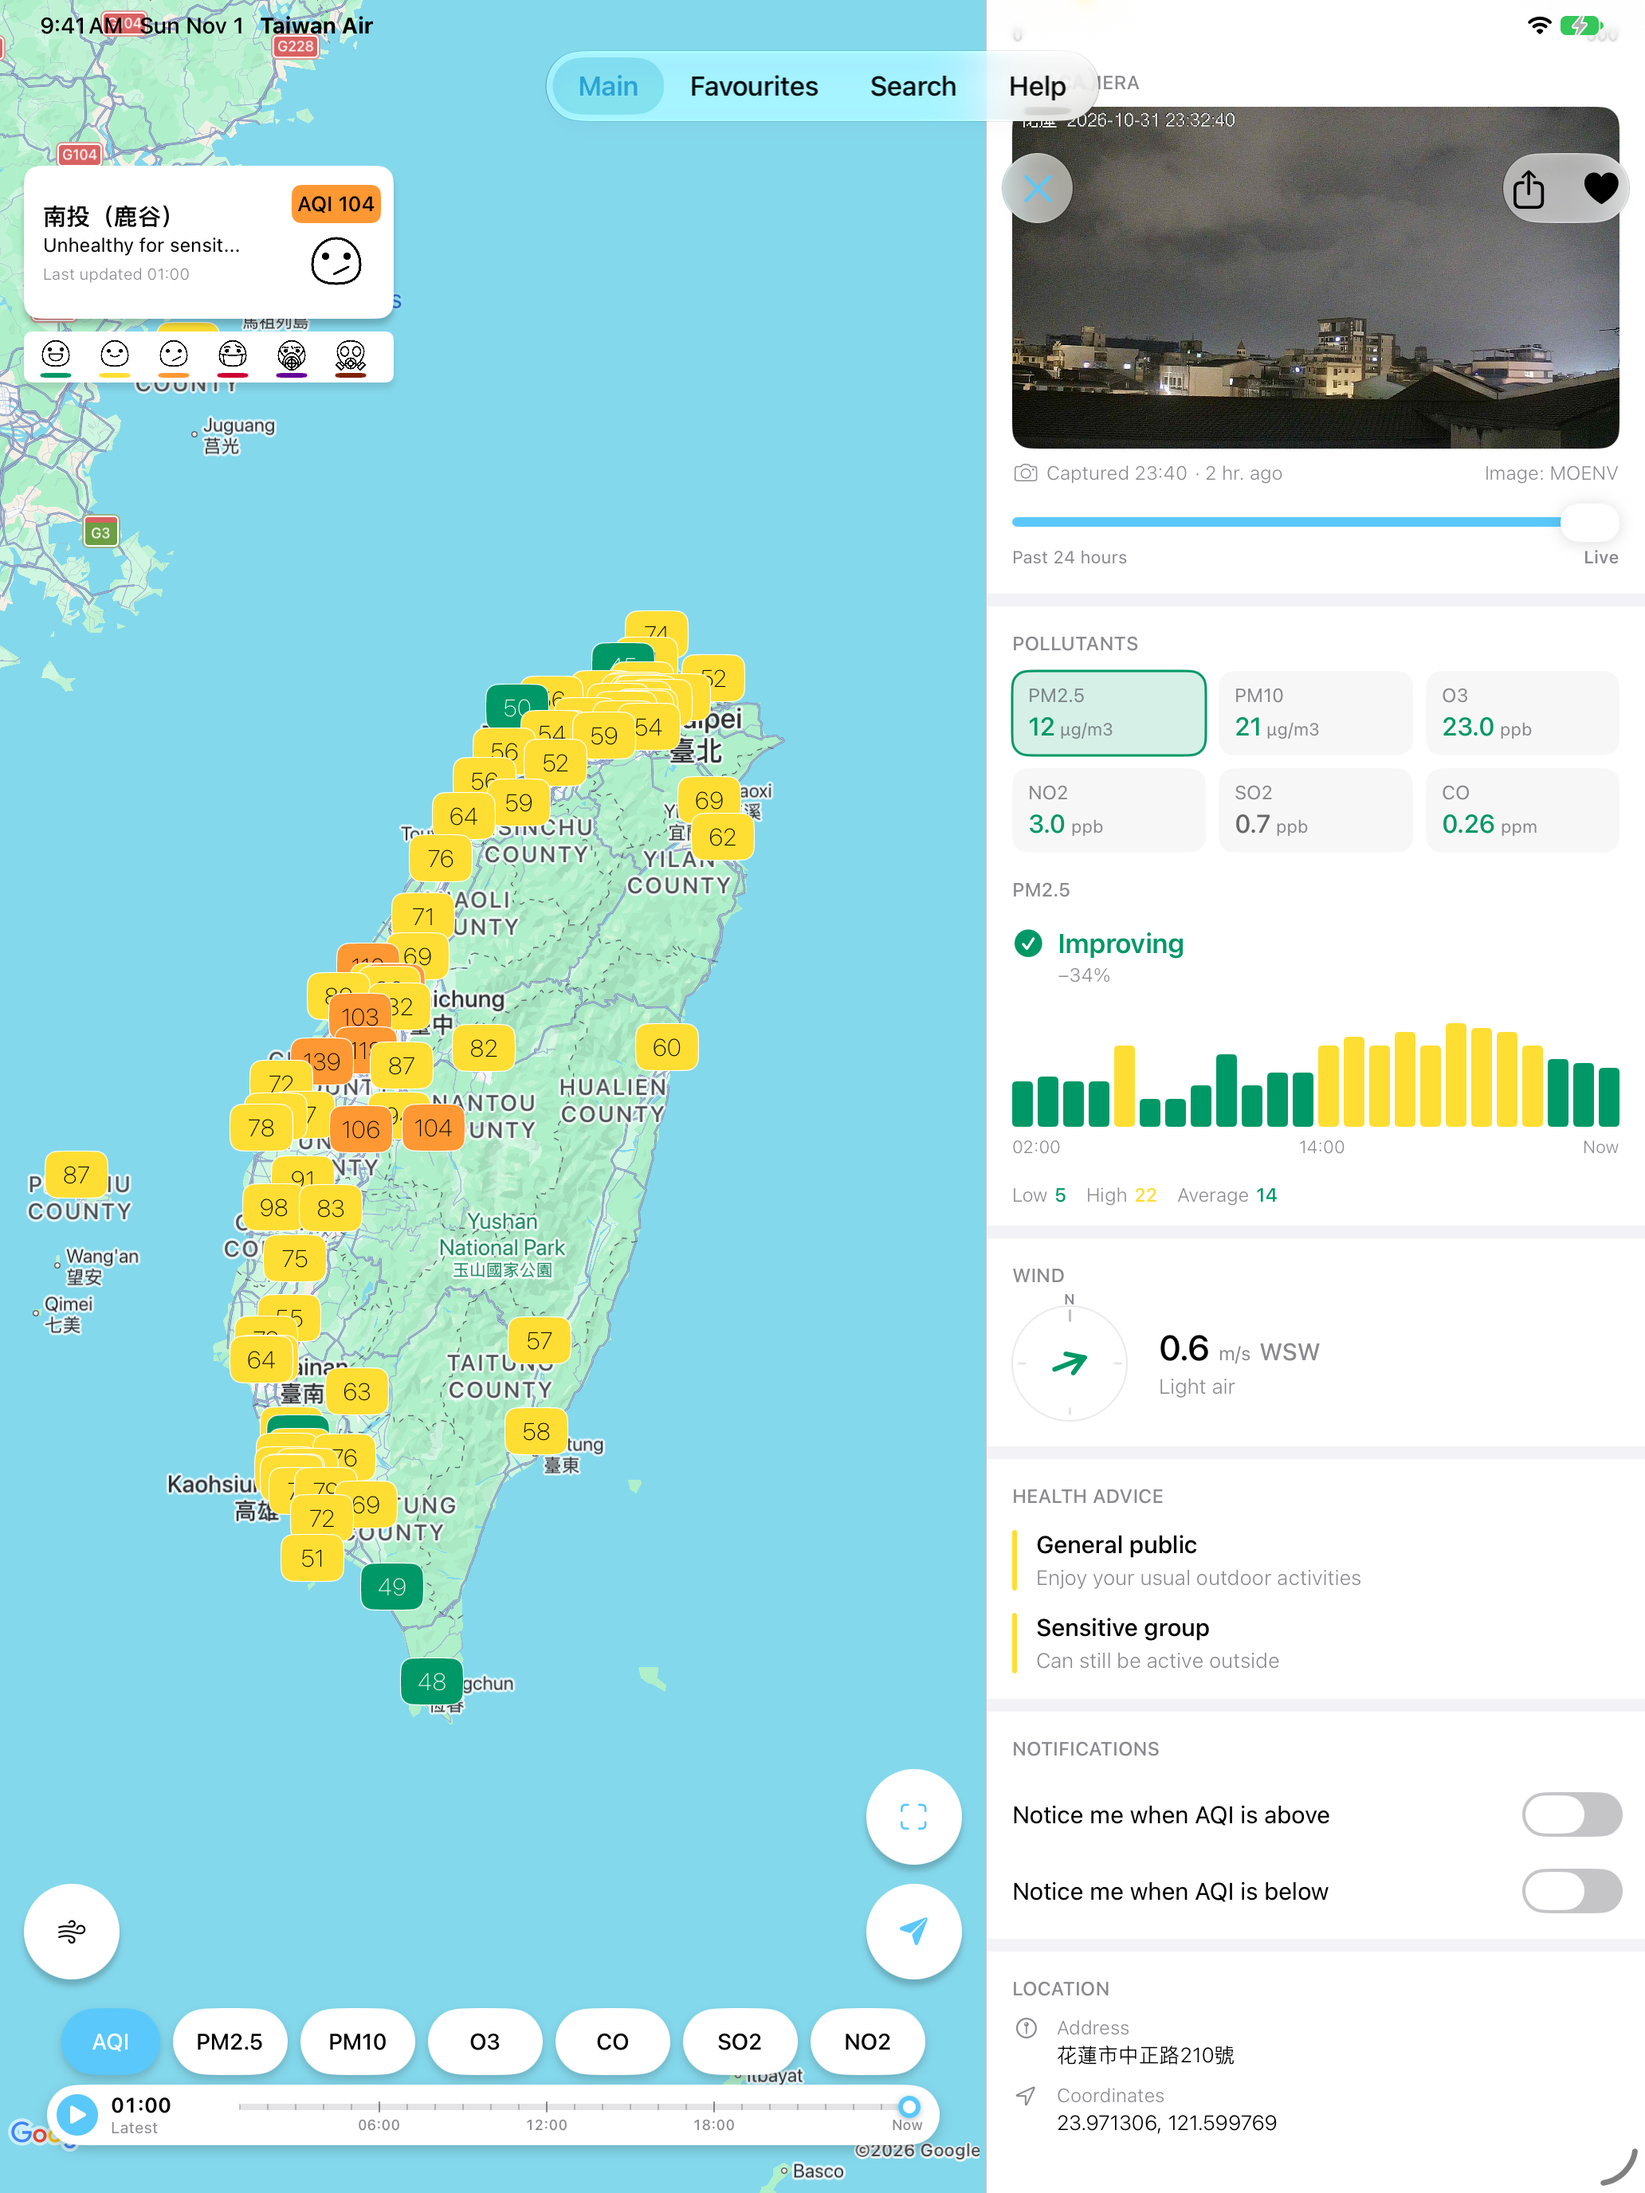
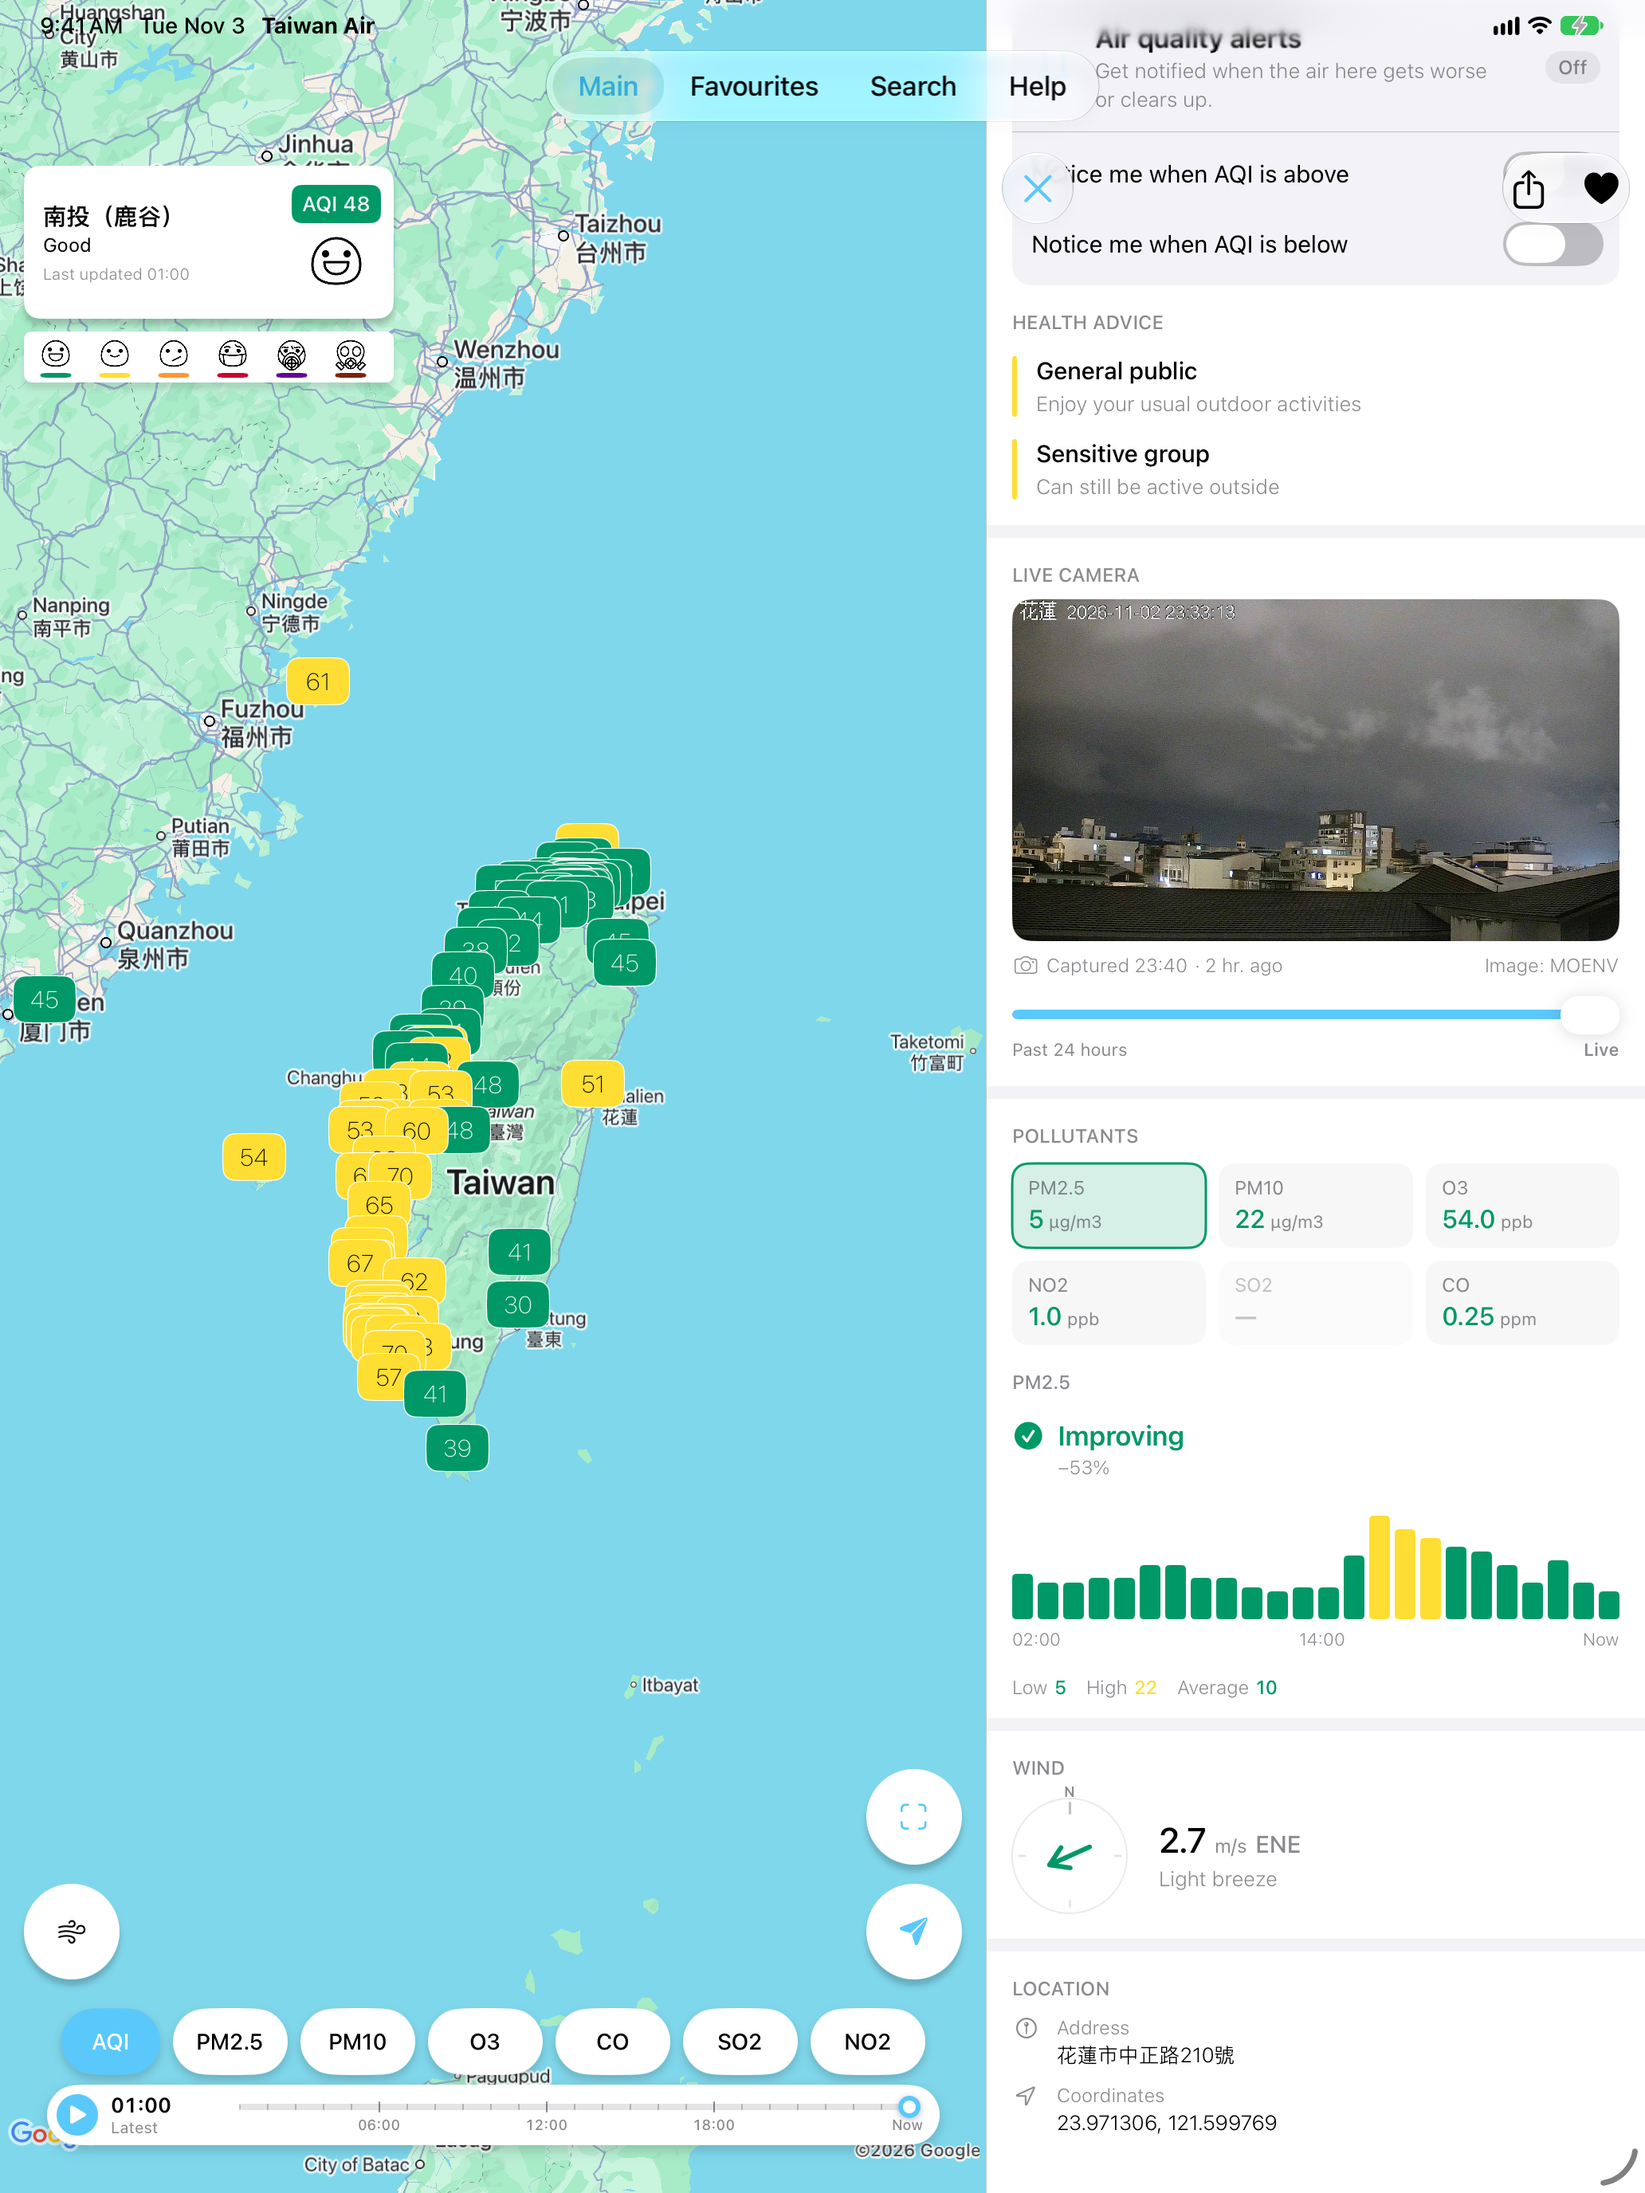
FOX-40: re-capture iPhone/iPad App Store shots on the post-FOX-25 station page
- screenshots_raw: fresh iPhone (iPhone 17 Pro, 1206x2622) and iPad Pro 13"
  captures, en-US and zh-Hant, from this branch. The station shot now shows
  the alerts card (off, unlocked) and health advice under the scale; the
  trend shot has PM2.5 picked with its 24-hour chart.
- AppStoreScreenshotTests: skips the FOX-34 welcome flow, turns down a
  notification prompt, fails unless the station page shows the alerts card
  off and without the two-station cap (FOX-37 M3), scrolls until the
  pollutants reach the top or the page stops, and retries the PM2.5 tap
  until the cell is selected.
- PollutantGridView: the charted pollutant carries the isSelected
  accessibility trait.
- capture_screenshots: udid and derived_data options, so a worktree can
  capture on its own simulator and DerivedData.
- fastlane/README.md regenerated from the lane descriptions.

diff --git a/TWAQIUITests/AppStoreScreenshotTests.swift b/TWAQIUITests/AppStoreScreenshotTests.swift
@@ -22,6 +22,12 @@ import XCTest
 ///   SCREENSHOT_PREFIX    file name prefix: "iPhone" or "iPad"
 ///   SCREENSHOT_LANGUAGE  "en" or "zh-Hant"
 ///   SCREENSHOT_MAP_ZOOM  optional; the map's zoom, default 7.2
+///
+/// It writes nothing to OneSignal or Directus: the welcome flow is marked
+/// done, so a fresh install is never asked for notifications, a stray
+/// notification prompt is turned down, and no alert switch or heart is
+/// tapped. The station shot is checked to show the alerts card (FOX-25)
+/// switched off and unlocked before it is taken.
 final class AppStoreScreenshotTests: XCTestCase {
     private var app: XCUIApplication!
     private var outputDir: URL!
@@ -50,11 +56,13 @@ final class AppStoreScreenshotTests: XCTestCase {
 
         app = XCUIApplication()
         // NSUserDefaults' argument domain, for this launch only: `pro` hides
-        // the ad banners, the camera keys frame the whole island, the
-        // favourites are seeded without touching alerts, and the last two
-        // pick the language.
+        // the ad banners, `onboardingCompleted` skips the welcome flow (and
+        // with it the notification prompt), the camera keys frame the whole
+        // island, the favourites are seeded without touching alerts, and the
+        // last two pick the language.
         app.launchArguments = [
             "-pro", "YES",
+            "-onboardingCompleted", "YES",
             "-lastestMapLat", "23.7",
             "-lastestMapLon", "121.0",
             "-lastestMapZoom", zoom,
@@ -88,6 +96,7 @@ final class AppStoreScreenshotTests: XCTestCase {
         wait(for: [loaded], timeout: 90)
         // Anything below the reading (forecast, cam frame) arrives after it.
         settle(seconds: 6)
+        assertAlertsCardOffAndUnlocked()
         snapshot("02 station")
 
         // 03: the pollutants scrolled up to the top, with PM2.5 picked so
@@ -104,7 +113,13 @@ final class AppStoreScreenshotTests: XCTestCase {
             .matching(NSPredicate(format: "label BEGINSWITH %@ AND label != %@", "PM2.5", "PM2.5"))
             .firstMatch
         XCTAssertTrue(pm25.waitForExistence(timeout: 10), "No PM2.5 cell in the pollutant grid")
-        pm25.tap()
+        // A tap while the page is still settling from the drags can be taken
+        // as "stop scrolling" and select nothing, so check and tap again.
+        for _ in 0..<3 where !pm25.isSelected {
+            settle(seconds: 2)
+            pm25.tap()
+        }
+        XCTAssertTrue(pm25.isSelected, "PM2.5 isn't picked, so the chart shows AQI")
         settle()
         snapshot("03 trend")
 
@@ -130,30 +145,61 @@ final class AppStoreScreenshotTests: XCTestCase {
 
     /// Drags `element` up to just under the floating close and share
     /// buttons, slowly so the scroll view doesn't coast past it.
+    ///
+    /// Since FOX-25 the alerts card and health advice sit above the
+    /// pollutants, so they start well below the fold. Each drag starts in
+    /// the scroll view's right gutter, clear of the switches and the cam
+    /// scrubber, and it keeps going until the element is at the top or the
+    /// page stops moving: in the tall iPad panel the page bottoms out with
+    /// the pollutants mid-screen, and the chart still fits under them.
     private func scrollToTop(_ element: XCUIElement) {
-        guard element.waitForExistence(timeout: 10) else { return }
+        XCTAssertTrue(element.waitForExistence(timeout: 10), "Nothing to scroll to")
+        let scrollView = app.scrollViews.containing(NSPredicate(format: "label == %@", element.label)).firstMatch
         let window = app.windows.firstMatch.frame
         let target = window.minY + window.height * 0.17
-        for _ in 0..<3 {
+        for _ in 0..<8 {
             let y = element.frame.minY
             guard y > target + 20 else { return }
-            let distance = min(y - target, window.height * 0.6)
-            let start = element.coordinate(withNormalizedOffset: CGVector(dx: 0.5, dy: 0.5))
+            let distance = min(y - target, window.height * 0.5)
+            let start = scrollView.coordinate(withNormalizedOffset: CGVector(dx: 0.97, dy: 0.8))
             let end = start.withOffset(CGVector(dx: 0, dy: -distance))
             start.press(forDuration: 0.1, thenDragTo: end, withVelocity: .slow, thenHoldForDuration: 0.6)
             settle(seconds: 1)
+            guard abs(element.frame.minY - y) > 2 else { return }
         }
     }
 
-    /// Location, notification and tracking prompts. Index 1 is the allowing
-    /// choice on each, in either language.
+    /// The alerts card FOX-25 put under the reading: present, off, and
+    /// without the two-station cap caption and locked switches it shows
+    /// until OneSignal has answered (FOX-37 M3). Fails the run rather than
+    /// capture a station page that isn't what the app shows.
+    private func assertAlertsCardOffAndUnlocked() {
+        let title = isChinese ? "空品通知" : "Air quality alerts"
+        let off = isChinese ? "未開啟" : "Off"
+        let card = app.descendants(matching: .any)
+            .matching(NSPredicate(format: "label BEGINSWITH %@", title))
+            .firstMatch
+        XCTAssertTrue(card.waitForExistence(timeout: 15), "No alerts card on the station page")
+        XCTAssertTrue(card.label.hasSuffix(off), "Alerts card isn't off: \(card.label)")
+
+        let cap = app.staticTexts[isChinese ? "最多只能設定 2 個測站" : "You can only enable at most for 2 stations"]
+        let unlocked = expectation(for: NSPredicate(format: "exists == false"), evaluatedWith: cap)
+        wait(for: [unlocked], timeout: 30)
+        XCTAssertFalse(cap.exists, "Alerts card still shows the two-station cap")
+    }
+
+    /// Location and tracking prompts are allowed (index 1 in either
+    /// language); a notification prompt is turned down (index 0), so a
+    /// capture never registers this simulator for push.
     private func dismissSystemAlerts() {
         let springboard = XCUIApplication(bundleIdentifier: "com.apple.springboard")
         for _ in 0..<3 {
             let alert = springboard.alerts.firstMatch
             guard alert.waitForExistence(timeout: 5) else { return }
+            let isNotifications = alert.label.localizedCaseInsensitiveContains("notification")
+                || alert.label.contains("通知")
             let buttons = alert.buttons
-            buttons.element(boundBy: min(1, buttons.count - 1)).tap()
+            buttons.element(boundBy: isNotifications ? 0 : min(1, buttons.count - 1)).tap()
         }
     }
 

diff --git a/TWAQI/Views/Details/PollutantGridView.swift b/TWAQI/Views/Details/PollutantGridView.swift
@@ -86,5 +86,8 @@ struct PollutantGridView: View {
         }
         .buttonStyle(PlainButtonStyle())
         .disabled(!hasReading)
+        // The charted pollutant reads as selected to VoiceOver (and to the
+        // App Store screenshot test), not only by its tint.
+        .accessibilityAddTraits(isSelected ? .isSelected : [])
     }
 }

diff --git a/fastlane/README.md b/fastlane/README.md
@@ -35,13 +35,47 @@ Frame only the iPhone Duo captures (fastlane/screenshots_raw/<locale>/iPhone Duo
 
 Leaves the iPhone, iPad and watch screenshots already framed alone
 
+### ios capture_screenshots
+
+```sh
+[bundle exec] fastlane ios capture_screenshots
+```
+
+Capture the raw App Store screenshots of the four headline features on one simulator
+
+AppStoreScreenshotTests takes map, station, 24-hour chart and Favourites, once per locale, into
+
+fastlane/screenshots_raw/<locale>/<prefix> NN <name>.png. Then run frame_screenshots
+
+Options: device (simulator name, default "iPhone 18 Pro"), udid (a simulator's id, used instead
+
+of device, so parallel worktrees can each capture on their own), prefix ("iPhone" or "iPad",
+
+default "iPhone"), zoom (map zoom, default 7.2), derived_data (default /tmp/twaqi-screenshots).
+
+The Duo keeps capture_duo_screenshots
+
+### ios capture_duo_screenshots
+
+```sh
+[bundle exec] fastlane ios capture_duo_screenshots
+```
+
+Capture the raw iPhone Duo screenshots on the unfolded iPhone Duo simulator (iOS 27.1+)
+
+DuoScreenshotTests takes 01-03 and ShareScreenshotTests 04, once per locale, into
+
+fastlane/screenshots_raw/<locale>/iPhone Duo NN.png. Then run frame_duo_screenshots
+
+Options: device (simulator name, default "iPhone Duo")
+
 ### ios upload_screenshots
 
 ```sh
 [bundle exec] fastlane ios upload_screenshots
 ```
 
-Upload screenshots only to App Store Connect for 3.1.2
+Upload screenshots only to App Store Connect for 3.1.4
 
 Does not touch the binary, the metadata, or the review submission
 
@@ -51,7 +85,7 @@ Does not touch the binary, the metadata, or the review submission
 [bundle exec] fastlane ios upload_watch_screenshots
 ```
 
-Upload the Apple Watch screenshots only to App Store Connect for 3.1.2
+Upload the Apple Watch screenshots only to App Store Connect for 3.1.4
 
 Leaves the iPhone and iPad screenshots already on the version alone
 
@@ -61,7 +95,7 @@ Leaves the iPhone and iPad screenshots already on the version alone
 [bundle exec] fastlane ios upload_duo_screenshots
 ```
 
-Upload the iPhone Duo screenshots only to App Store Connect for 3.1.2
+Upload the iPhone Duo screenshots only to App Store Connect for 3.1.4
 
 Leaves the iPhone, iPad and watch screenshots already on the version alone
 
@@ -81,7 +115,7 @@ Capture them first with tools/capture_vision_screenshots.sh
 [bundle exec] fastlane ios upload_vision_screenshots
 ```
 
-Upload the Vision Pro screenshots only to the visionOS 3.1.2 version
+Upload the Vision Pro screenshots only to the visionOS 3.1.4 version
 
 Replaces the Vision Pro set in each locale; leaves every other platform alone
 
@@ -91,7 +125,7 @@ Replaces the Vision Pro set in each locale; leaves every other platform alone
 [bundle exec] fastlane ios upload_metadata
 ```
 
-Upload text metadata only to App Store Connect for 3.1.2
+Upload text metadata only to App Store Connect for 3.1.4
 
 Does not touch the binary, the screenshots, or the review submission
 
@@ -101,9 +135,19 @@ Does not touch the binary, the screenshots, or the review submission
 [bundle exec] fastlane ios release_build
 ```
 
-Archive a Release build of 3.1.2 and upload it to App Store Connect
+Archive a Release build of 3.1.4 and upload it to App Store Connect
 
 Bumps every target's build number past the latest one on TestFlight. Never submits for review
+
+### ios asc_version_state
+
+```sh
+[bundle exec] fastlane ios asc_version_state
+```
+
+Print the App Store Connect state of the 3.1.4 version on each platform. Read-only
+
+Screenshot upload lanes refuse to run unless the state is one where screenshots can be edited
 
 ### ios screenshots
 
